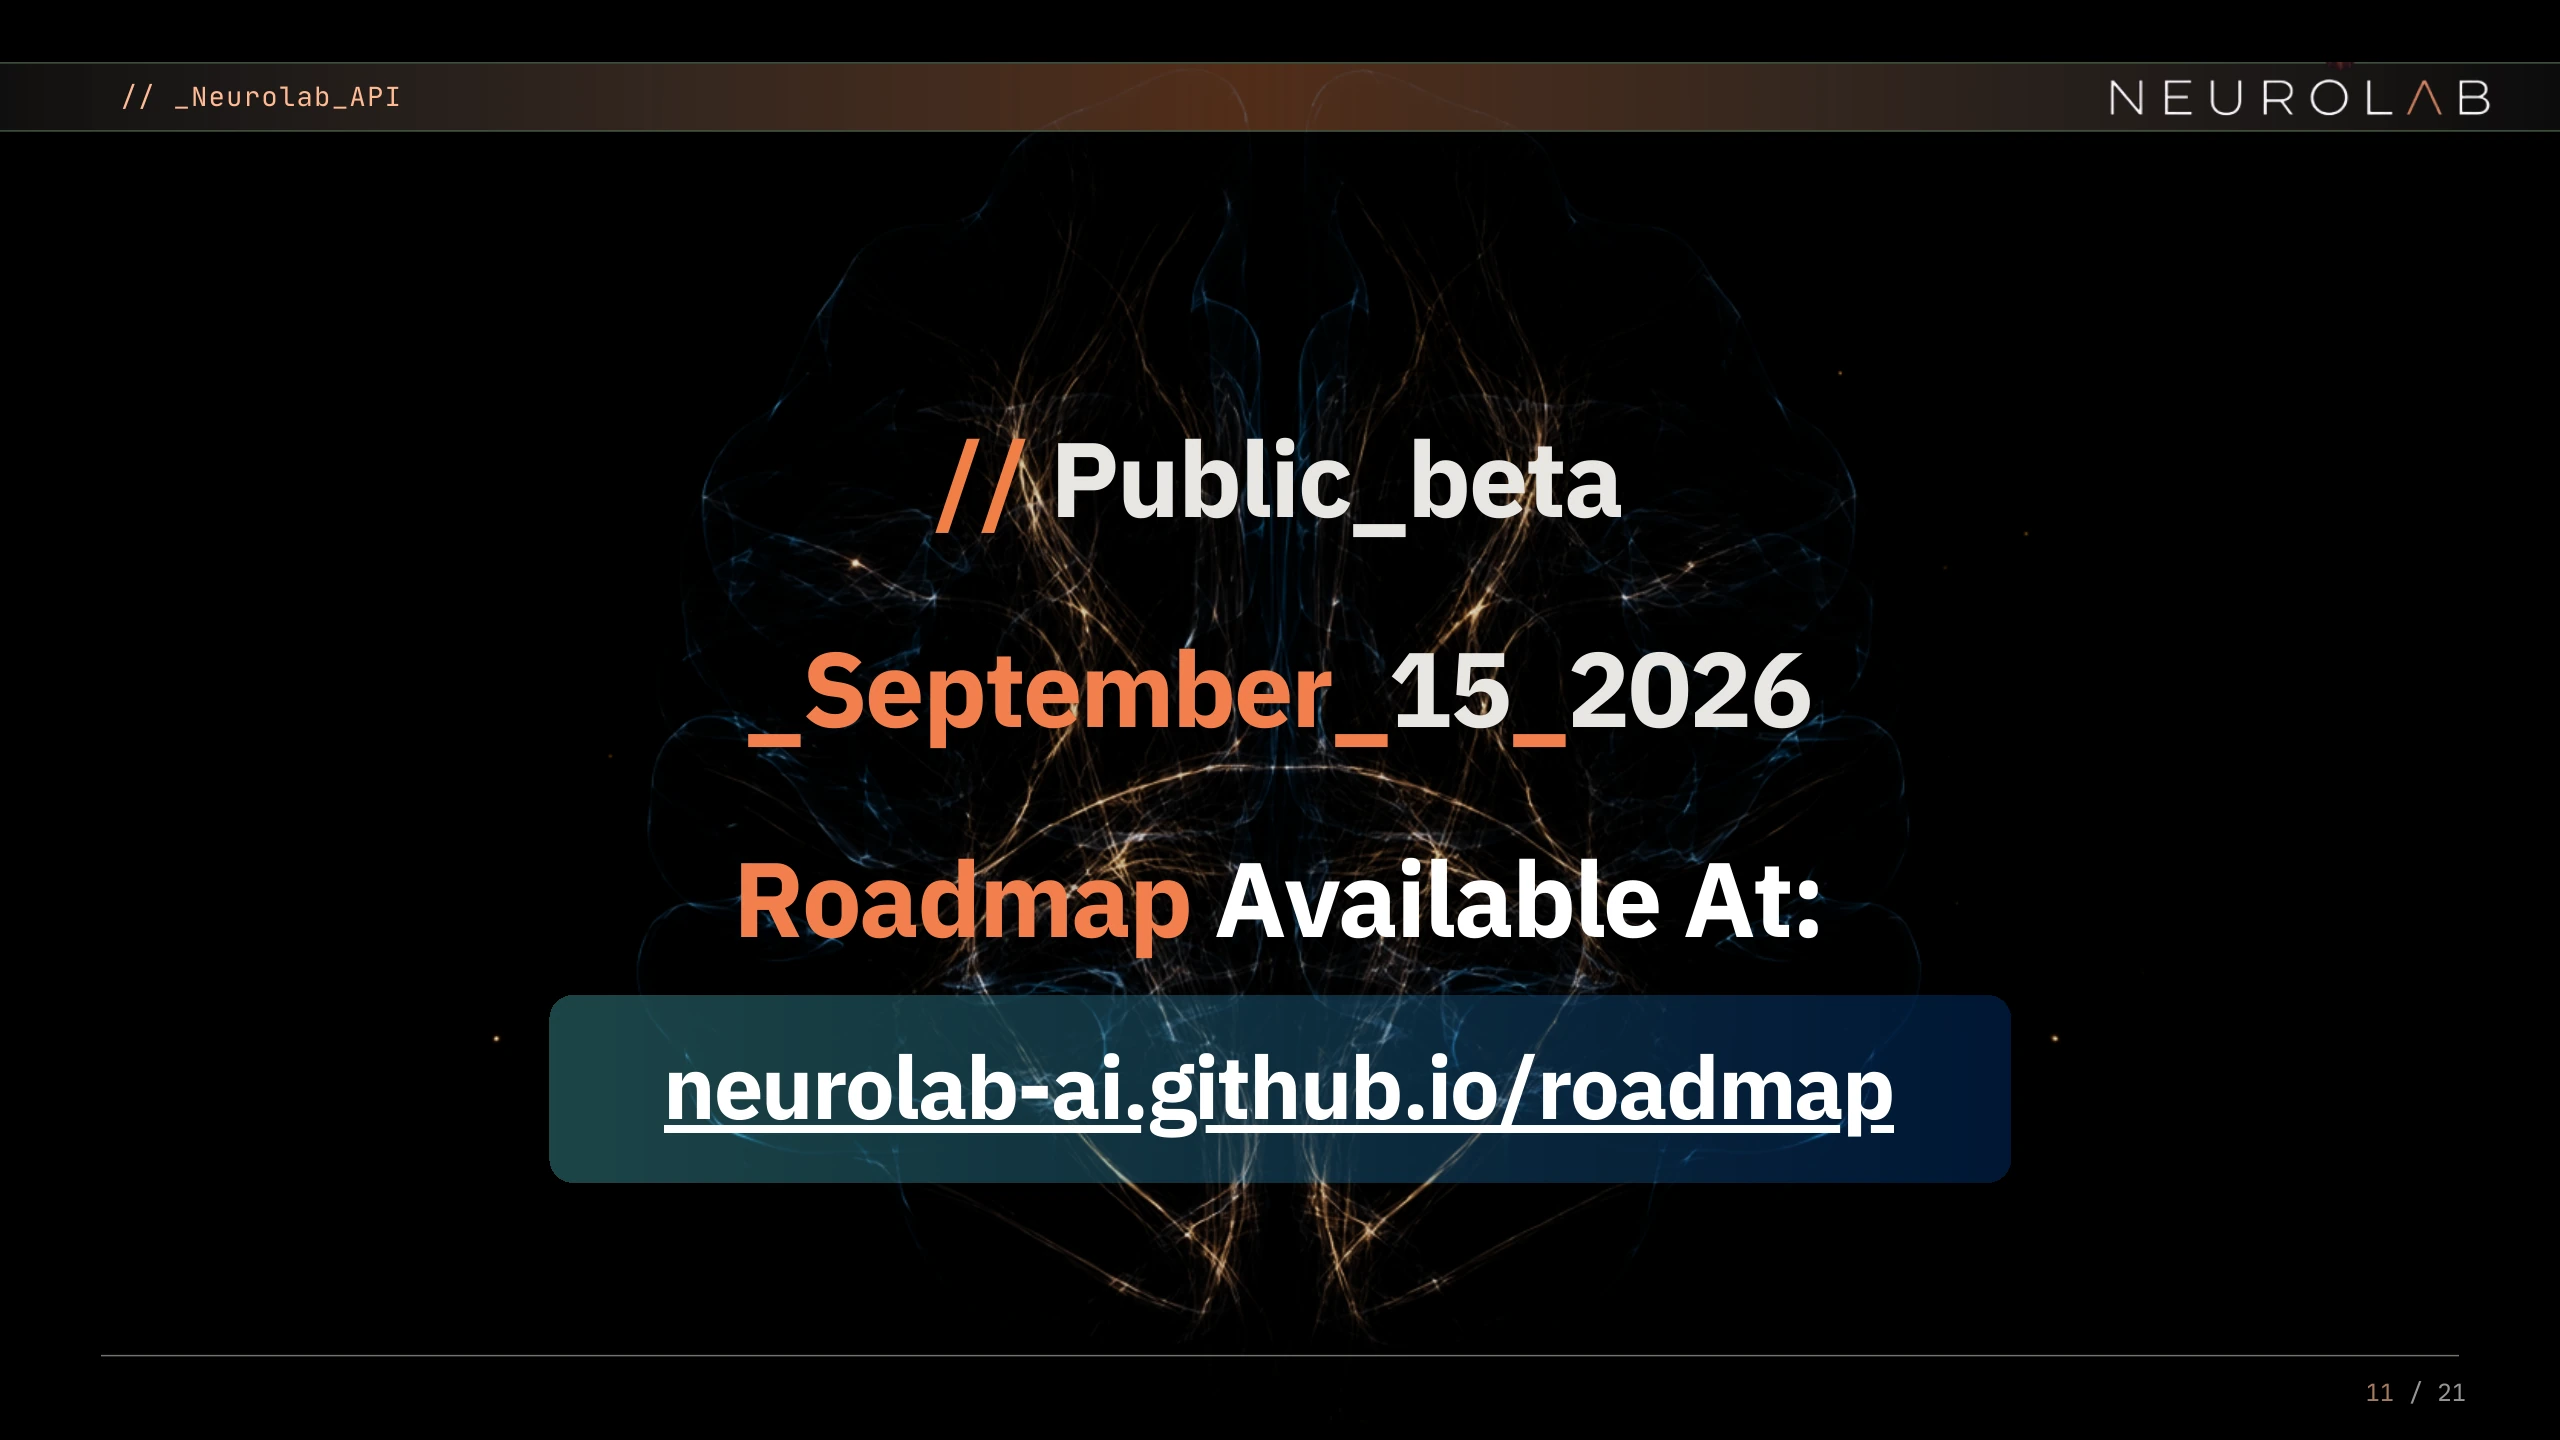
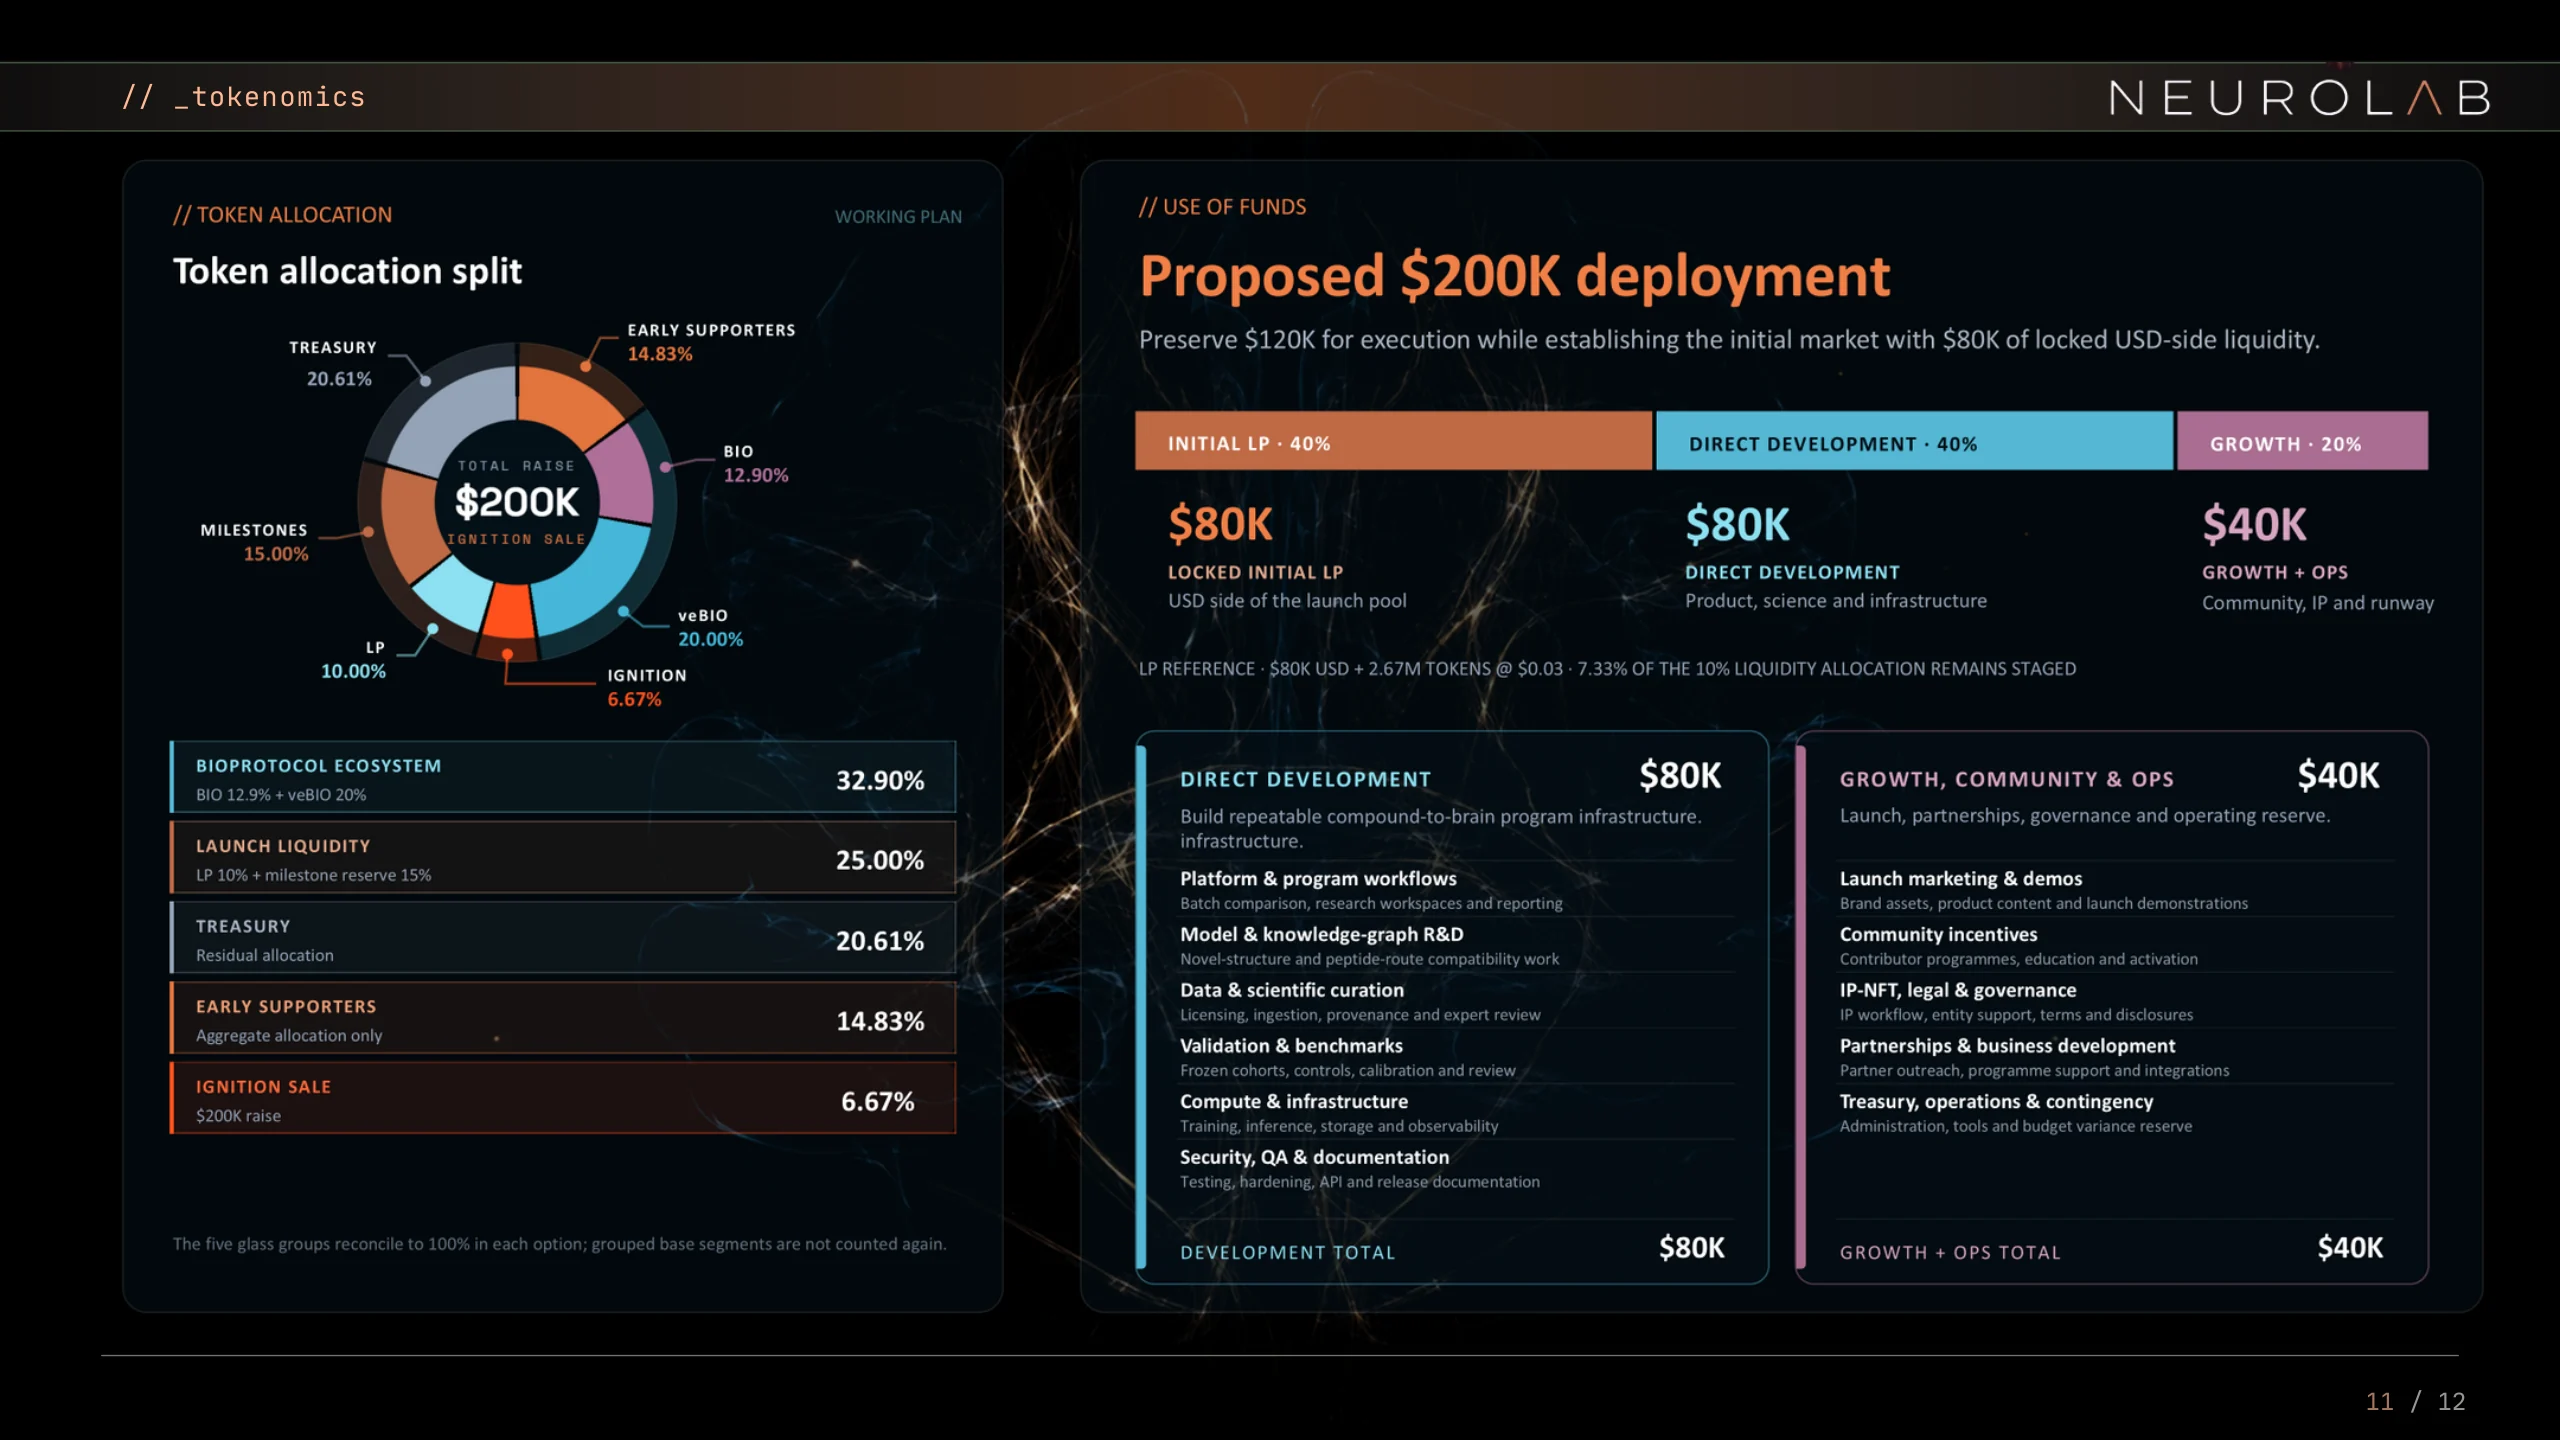
Add tokenomics slide to the public project deck (#44)
Insert the tokenomics slide as slide 11 and move Public Beta to slide 12,
bringing the published deck to the full 12-slide sequence.

- slide-11.webp: tokenomics (token allocation split and use of funds),
  rendered from the source deck export at 2560x1440 to match the existing
  slides
- slide-12.webp: Public Beta, previously slide 11, unchanged
- deck.js: add the Tokenomics entry to the slide manifest with descriptive
  alt text
- index.html: update both slide counters from 11 to 12

Verified locally: all 12 slides return 200, no console errors, carousel and
counters report 11/12 Tokenomics and 12/12 Public Beta.

diff --git a/site/deck/index.html b/site/deck/index.html
@@ -45,7 +45,7 @@
         <h2 class="sr-only" id="carousel-title">Interactive project deck</h2>
 
         <div class="carousel-meta" aria-live="polite">
-          <span class="slide-counter" id="slide-counter">01 / 11</span>
+          <span class="slide-counter" id="slide-counter">01 / 12</span>
           <button class="open-presentation" id="open-presentation" type="button">
             Open Full-Screen Presentation <span aria-hidden="true">↗</span>
           </button>
@@ -79,7 +79,7 @@
     <dialog class="presentation-dialog" id="presentation-dialog" aria-labelledby="presentation-title">
       <div class="presentation-shell">
         <header class="presentation-header">
-          <span class="presentation-counter" id="presentation-counter">01 / 11</span>
+          <span class="presentation-counter" id="presentation-counter">01 / 12</span>
           <h2 id="presentation-title">Introducing NeuroLab</h2>
           <button class="presentation-close" id="presentation-close" type="button" aria-label="Close full-screen presentation">×</button>
         </header>

diff --git a/site/deck/deck.js b/site/deck/deck.js
@@ -12,6 +12,7 @@
     { title: "Knowledge Graph", alt: "NeuroLab knowledge graph interface showing local evidence and support bundles." },
     { title: "Brain Explorer", alt: "NeuroLab brain explorer with mechanistic localization controls and a three-dimensional brain visualization." },
     { title: "API for Agents", alt: "NeuroLab API overview for agent-oriented autonomous research workflows." },
+    { title: "Tokenomics", alt: "NeuroLab indicative working plan for token allocation and use of funds, showing the allocation split across the BioProtocol ecosystem, launch liquidity, treasury, early supporters and the ignition sale, alongside the proposed deployment of the raise across initial liquidity, direct development, and growth and operations." },
     { title: "Public Beta", alt: "NeuroLab public beta announcement for September 15, 2026 with the public roadmap address." }
   ].map(function (slide, index) {
     slide.src = "./slides/slide-" + String(index + 1).padStart(2, "0") + ".webp";
